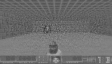
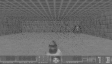
q2...?

diff --git a/run.py b/run.py
@@ -62,7 +62,9 @@ def run():
             state = state.astype(np.int8)
 
             nb = len(imgs)
-
+            print(grads[0])
+            grads = np.where(grads >= 0, grads, 0)
+            print(grads[0])
             saliency = Image.fromarray(grads, 'L')
             saliency.save("images/saliency_" + str(nb) + ".jpg")
 
